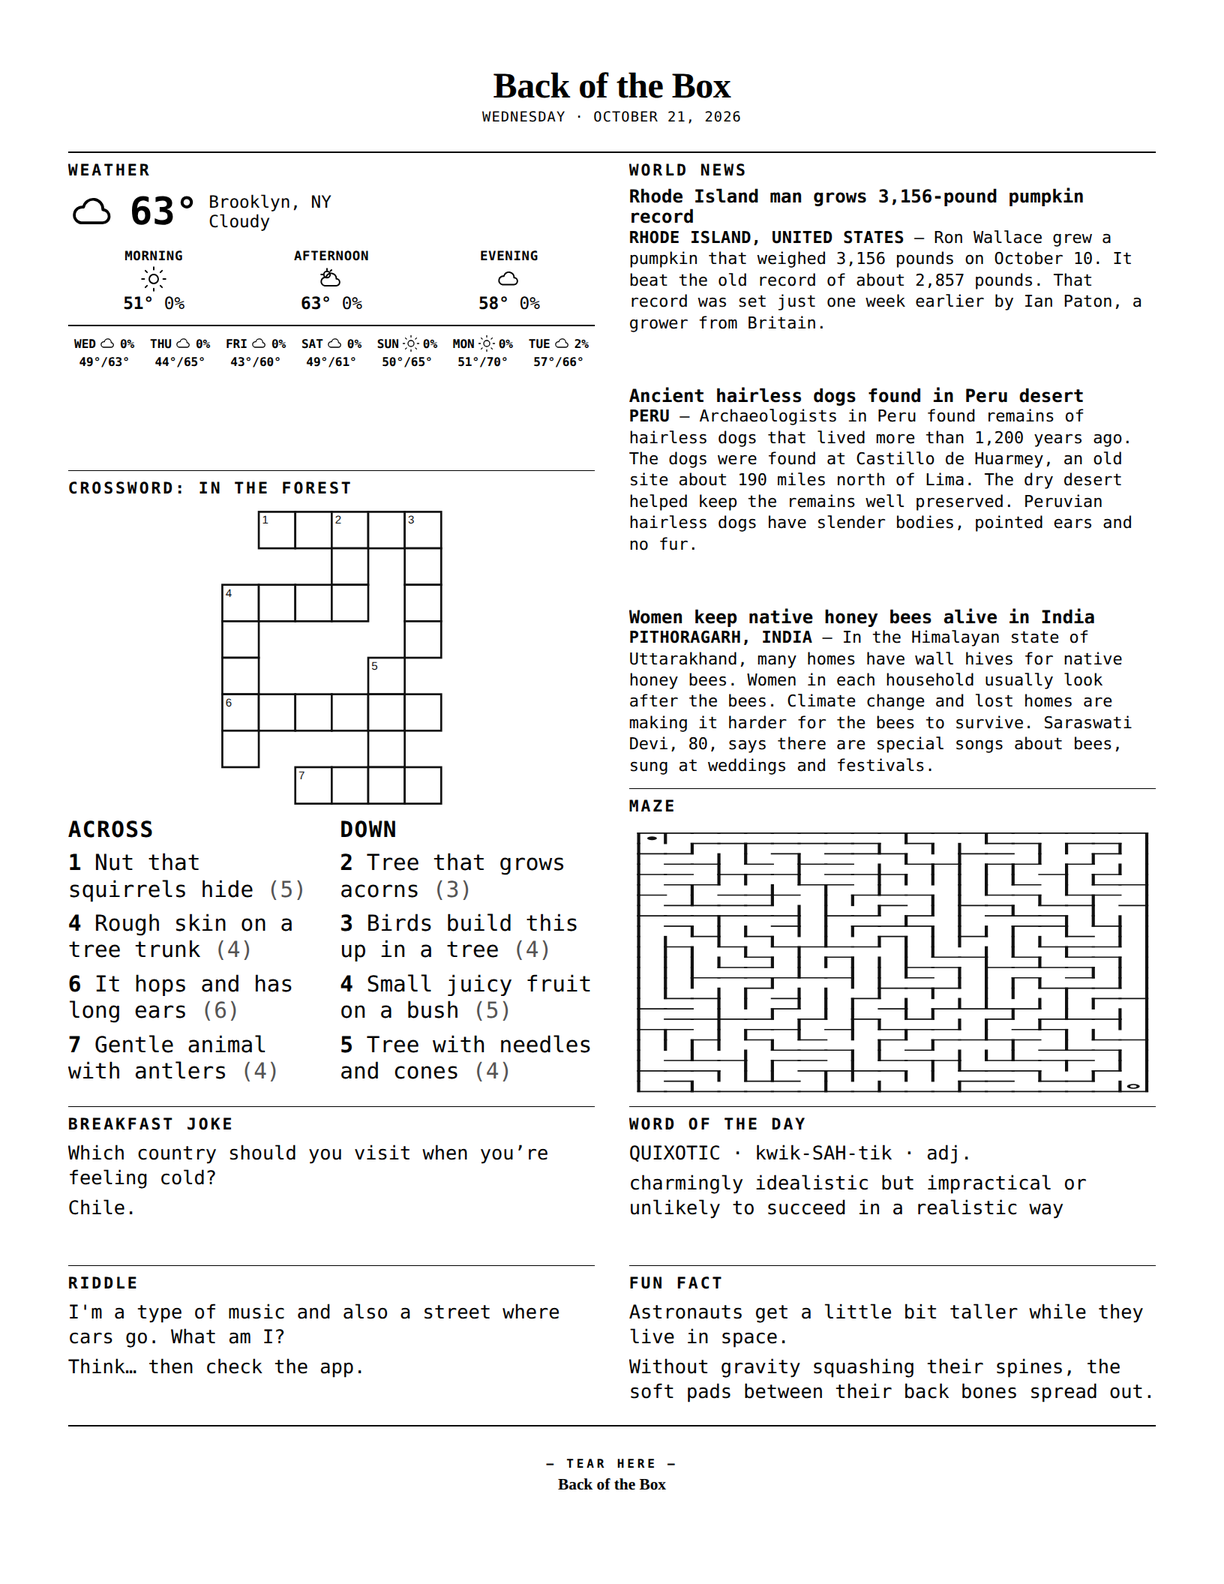
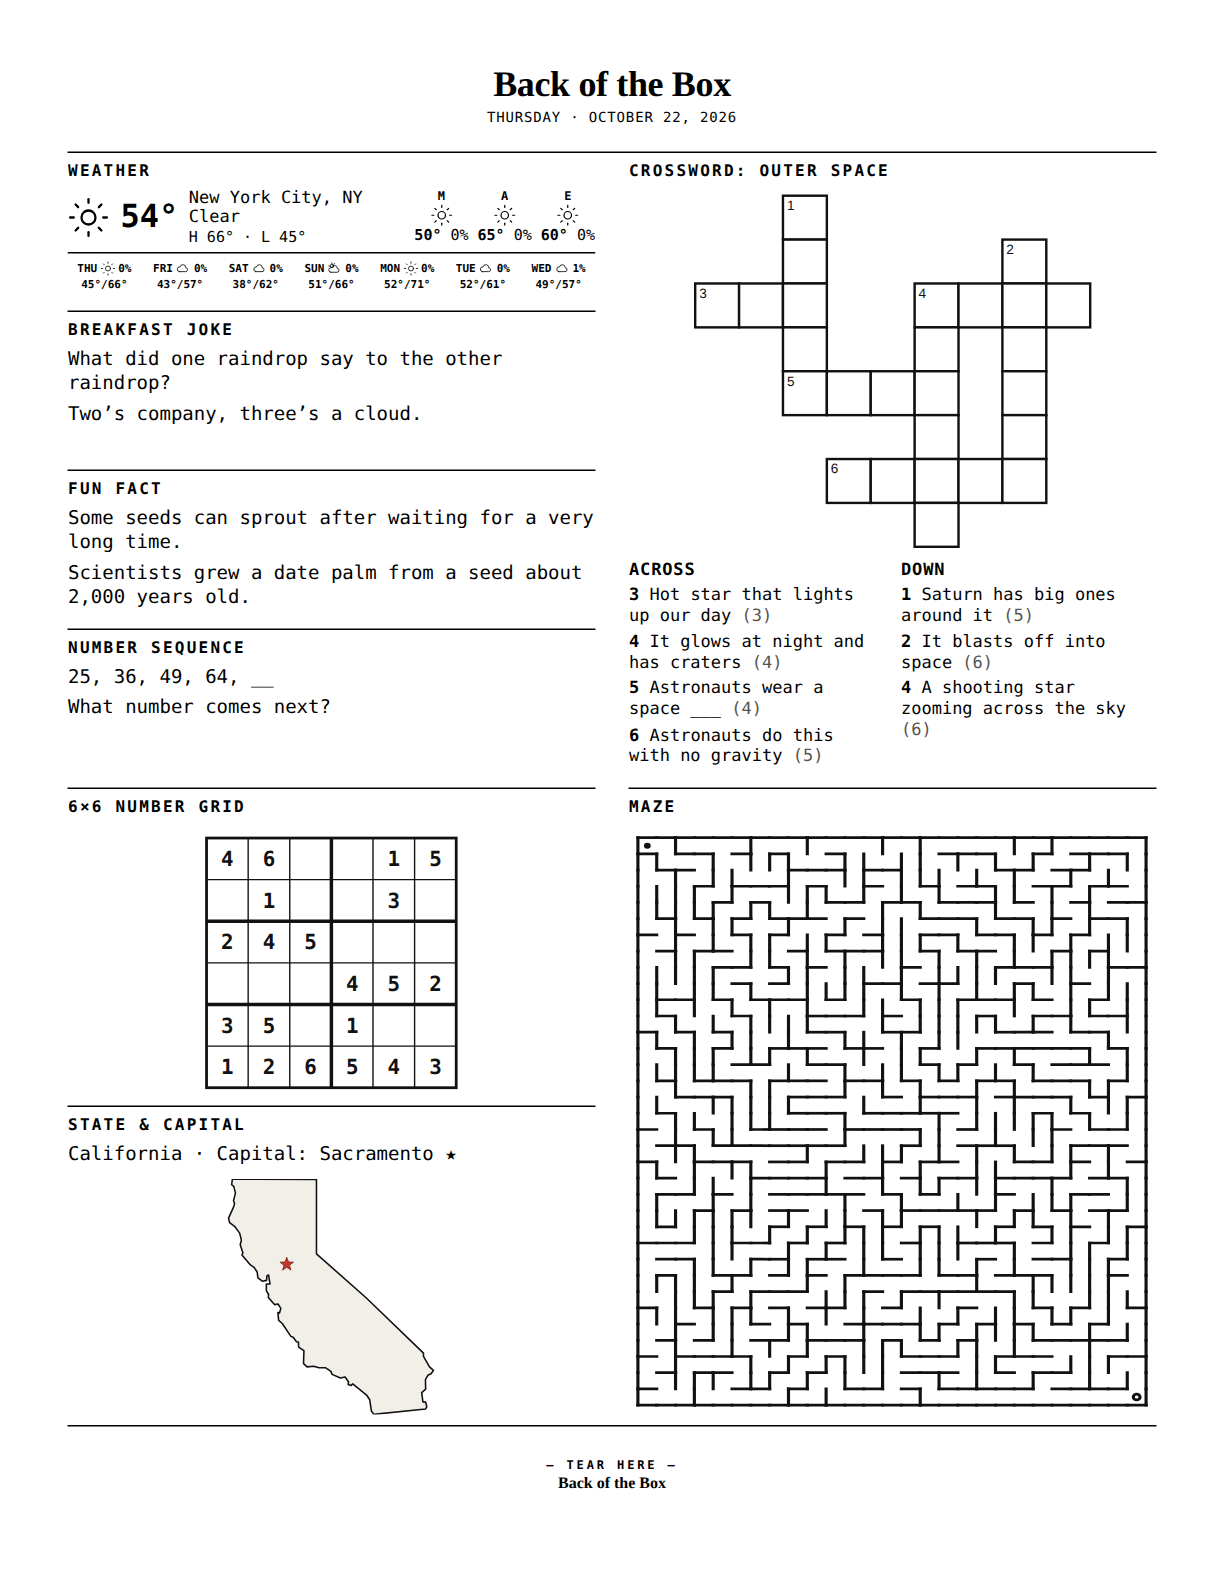
feat(print): square maze in Letter 1x cards, smaller crossword clues; real preview
- Letter 1× maze cards print a square maze (fewer cols so cells stay readable)
  instead of stretching a tall maze into a short card
- Crossword clues capped at 8.5pt; leftover space goes to the grid (min half the card)
- Home sample, cereal-box hero and OG image use a real morning page (Oct 22)

diff --git a/src/lib/printHtml.ts b/src/lib/printHtml.ts
@@ -139,7 +139,9 @@ export function buildPrintHtml(
   /* Number grid stays compact — about half a maze */
   .fig.fig-small svg{width:auto;max-width:46mm;max-height:100%}
   /* Maze stretches to fill its card — rectangular cells are fine and kill the gaps */
-  .col .fig-fill svg{width:100%;height:100%;max-width:none;max-height:none}`;
+  .col .fig-fill svg{width:100%;height:100%;max-width:none;max-height:none}
+  /* Square maze (1× card) keeps square cells: as tall as the card allows */
+  .col .fig-square svg{width:auto;height:100%;max-width:100%;max-height:100%}`;
 
   // For the strip, size the print page to the actual content height so the PDF
   // is one continuous 58mm-wide page (no half-empty trailing page).
@@ -161,8 +163,8 @@ export function buildPrintHtml(
     })();
   </script>`;
   // Crossword cards: once the real card size is known, give the grid a square
-  // box of at most half the card, then grow the clue font until the clues fill
-  // the rest. Letter only (strip cards have no fixed height to fill).
+  // box, size the clues (small, capped at 8.5pt) to fit, then give the grid any
+  // space left over. Letter only (strip cards have no fixed height to fill).
   const crosswordFit = `<script>
     (function(){
       if(!${isLetter ? "true" : "false"}) return;
@@ -175,17 +177,23 @@ export function buildPrintHtml(
           var w=sec.clientWidth-px(cs.paddingLeft)-px(cs.paddingRight);
           var h=sec.clientHeight-px(cs.paddingTop)-px(cs.paddingBottom);
           var h3=sec.querySelector('h3'); if(h3) h-=h3.getBoundingClientRect().height+px(getComputedStyle(h3).marginBottom);
-          // Box fits the grid's own shape: no taller than half the card, no wider than it.
+          // Box fits the grid's own shape: no taller than 60% of the card, no wider than it.
           var svg=g.querySelector('svg'), vb=svg&&svg.viewBox&&svg.viewBox.baseVal;
           var aspect=vb&&vb.width?vb.height/vb.width:1;
-          g.style.height=Math.floor(Math.min(h*0.5,w*aspect))+'px';
-          var room=h-g.getBoundingClientRect().height-px(getComputedStyle(g).marginTop)-px(getComputedStyle(c).marginTop)-2;
-          var lo=6, hi=16;
-          for(var i=0;i<16;i++){
+          var gm=px(getComputedStyle(g).marginTop)+px(getComputedStyle(c).marginTop)+2;
+          g.style.height=Math.floor(Math.min(h*0.6,w*aspect))+'px';
+          var room=h-g.getBoundingClientRect().height-gm;
+          // Clues stay small (capped at 8.5pt, like a newspaper puzzle).
+          var lo=5.5, hi=8.5;
+          c.style.fontSize=hi+'pt';
+          if(c.scrollHeight<=room) lo=hi;
+          else for(var i=0;i<14;i++){
             var mid=(lo+hi)/2; c.style.fontSize=mid+'pt';
             if(c.scrollHeight<=room) lo=mid; else hi=mid;
           }
           c.style.fontSize=lo+'pt';
+          // Any space the clues leave goes back to the grid.
+          g.style.height=Math.floor(Math.min(w*aspect,Math.max(h*0.5,h-c.scrollHeight-gm)))+'px';
         });
       }
       if(document.readyState==='complete') fit(); else window.addEventListener('load',fit);

diff --git a/src/lib/previewHtml.ts b/src/lib/previewHtml.ts
@@ -164,10 +164,10 @@ function crosswordClueFontPt(cw: CrosswordData, box: { w: number; h: number }): 
     }
     return lines * lineMm;
   };
-  for (let f = 11; f >= 6.5; f -= 0.25) {
+  for (let f = 8.5; f >= 6; f -= 0.25) {
     if (Math.max(columnHeight("across", f), columnHeight("down", f)) <= box.h) return f;
   }
-  return 6.5;
+  return 6;
 }
 
 export function sectionHtml(section: StripSection): string {
@@ -222,7 +222,7 @@ export function sectionHtml(section: StripSection): string {
 
   // Crossword: the grid in a square box on top, then Across / Down clue columns.
   // Sizes here are a fallback; the print page's fit script (printHtml) measures
-  // the real card and fills it (grid ≤ half the card, clues as large as fit).
+  // the real card and fills it (small clues, grid takes the rest).
   if (section.kind === "crossword" && section.crossword) {
     const cw = section.crossword;
     const sizeClass = section.size ? ` size-${section.size}` : "";
@@ -291,13 +291,17 @@ export function sectionHtml(section: StripSection): string {
   // Figure cards (maze/sudoku/etc.) grow to fill the column's leftover space so
   // there's no wasted gap; text cards stay at their natural height.
   const growClass = svg ? " grow" : "";
-  // Maze fills its card; the number grid stays small (~half a maze).
+  // A tall maze fills its card; a square one (1× card) keeps its shape. The
+  // number grid stays small (~half a maze).
+  const squareMaze = section.kind === "maze" && section.maze && section.maze.cols === section.maze.rows;
   const figClass =
-    section.kind === "maze" ? "fig fig-fill" : section.kind === "sudoku" ? "fig fig-small" : "fig";
+    section.kind === "maze"
+      ? squareMaze ? "fig fig-square" : "fig fig-fill"
+      : section.kind === "sudoku" ? "fig fig-small" : "fig";
   return `<section class="sec${growClass}${sizeClass} mod-${section.moduleId}">
     <h3>${esc(section.title)}</h3>
     ${lines}
-    ${svg ? `<div class="${figClass}">${svg}</div>` : ""}
+    ${svg ? `<div class="${figClass}">${squareMaze ? svg.replace(' preserveAspectRatio="none"', "") : svg}</div>` : ""}
   </section>`;
 }
 

diff --git a/src/app/page.tsx b/src/app/page.tsx
@@ -105,7 +105,7 @@ export default async function HomePage() {
             {/* eslint-disable-next-line @next/next/no-img-element */}
             <img
               src="/cereal-box.png"
-              alt="Back of the Box, morning brain cereal: today’s puzzle page with weather, kid-safe news, a crossword and a maze"
+              alt="Back of the Box, morning brain cereal: a real puzzle page with weather, a crossword, a maze and a number grid"
               className="w-full drop-shadow-2xl"
             />
           </div>
@@ -118,11 +118,11 @@ export default async function HomePage() {
             {/* eslint-disable-next-line @next/next/no-img-element */}
             <img
               src="/dispatch-preview.png"
-              alt="A real Back of the Box page: weather, world news, a themed crossword, a maze, word of the day, a joke, a riddle, and a fun fact"
+              alt="A real Back of the Box page: weather, a space-themed crossword, a maze, a joke, a fun fact, a number pattern, a number grid, and a state and capital"
               className="w-full rounded-lg border border-rule shadow-xl"
             />
             <p className="mt-3 text-center text-xs text-ink-soft">
-              Today’s page for a 7–9 year old, untouched.
+              A real morning page for a 7–9 year old, untouched.
             </p>
           </div>
           <div className="order-1 lg:order-2">

diff --git a/src/lib/puzzles/maze.ts b/src/lib/puzzles/maze.ts
@@ -119,9 +119,17 @@ function difficultyScore(maze: MazeData): number {
  * for long off-path branches gives the tempting wrong turns that make a maze
  * actually tricky instead of a single obvious corridor.
  */
-export function generateMaze(seed: number, band: AgeBand, difficulty?: number): MazeData {
-  const { cols, rows } =
-    difficulty != null ? mazeSizeForDifficulty(difficulty) : sizeForBand(band);
+export function generateMaze(
+  seed: number,
+  band: AgeBand,
+  difficulty?: number,
+  opts: { square?: boolean } = {},
+): MazeData {
+  const base = difficulty != null ? mazeSizeForDifficulty(difficulty) : sizeForBand(band);
+  // A square maze (Letter 1× card) uses fewer columns so its cells stay about
+  // the size they'd be in a tall card.
+  const side = Math.max(6, Math.round(base.cols * 0.75));
+  const { cols, rows } = opts.square ? { cols: side, rows: side } : base;
   // Little kids get an easy maze; bigger kids get a harder-selected one.
   const candidates =
     difficulty != null

diff --git a/src/lib/generateStrip.ts b/src/lib/generateStrip.ts
@@ -182,7 +182,10 @@ export function generateStrip(
       continue;
     }
     if (moduleId === "maze") {
-      const maze = generateMaze((seed ^ 0x4d41) >>> 0, band, difficulty);
+      // A Letter 1× card is wide and short, so stretching a tall maze into it
+      // squashes the cells; print a square maze there instead.
+      const square = paperSize === "letter" && cardSize === "full";
+      const maze = generateMaze((seed ^ 0x4d41) >>> 0, band, difficulty, { square });
       const svg = mazeToSvg(maze, { showPath: false });
       sections.push({
         id: `maze-${maze.cols}x${maze.rows}`,
